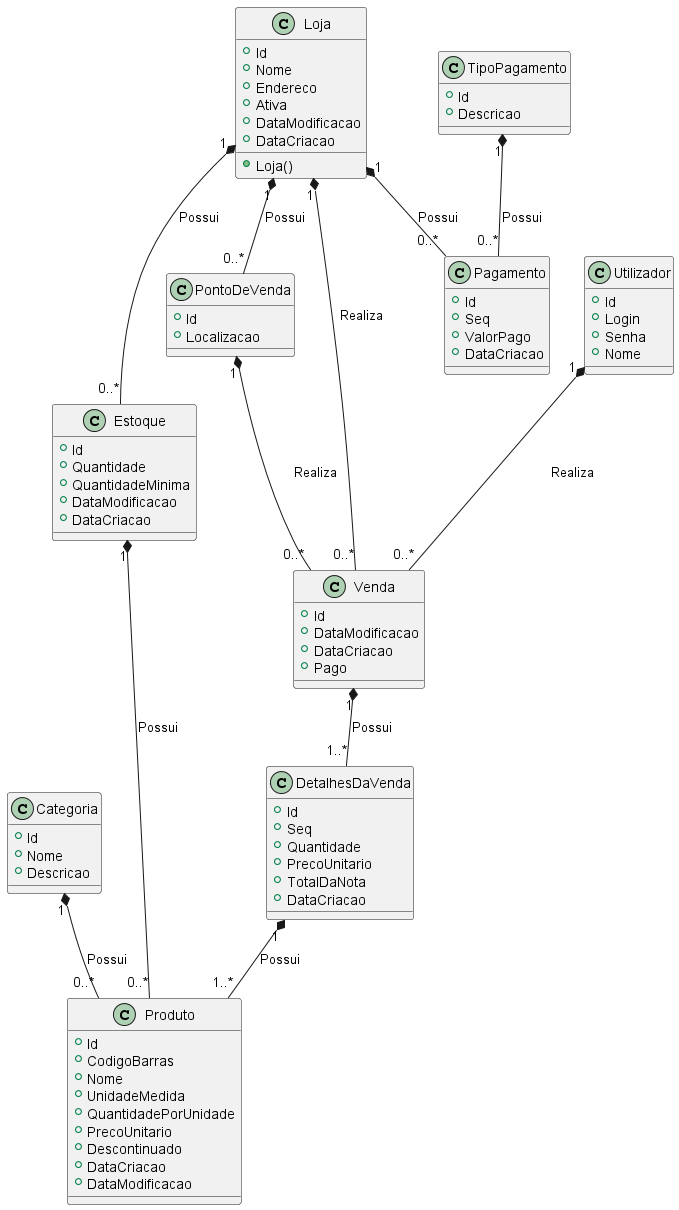
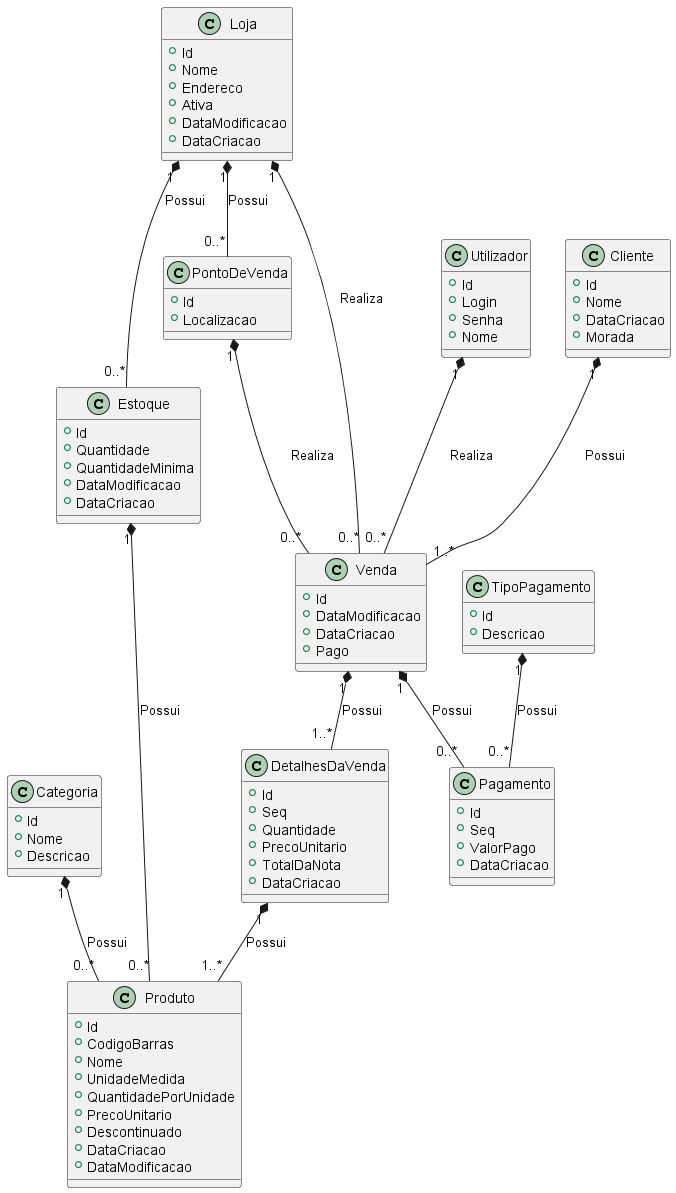
Acerttos do Modelo de Dados e acrescimo dos testes automatizados

diff --git a/Projeto01/Gandalf.Inc/Projeto.Tests/Modelo/ProdutoTests.cs b/Projeto01/Gandalf.Inc/Projeto.Tests/Modelo/ProdutoTests.cs
@@ -1,0 +1,97 @@
+using Microsoft.VisualStudio.TestTools.UnitTesting;
+using System;
+using System.Collections.Generic;
+using System.Linq;
+using System.Text;
+using System.Threading.Tasks;
+
+namespace Projeto.Tests.Modelo
+{
+    [TestClass]
+    public class ProdutoTests
+    {
+        [TestMethod]
+        public void DeveInstanciarUmObjetoProdutoTest()
+        {
+            //arrange
+            var produto = new Produto();
+
+            //act
+
+            //assert
+            Assert.IsNotNull(produto);
+            Assert.AreEqual(typeof(Produto), produto.GetType());
+        }
+
+        [TestMethod]
+        public void DeveInstanciarUmObjetoProdutoEaceitarPropriedadesTest()
+        {
+            //arrange
+            var produto = new Produto
+            {
+                Id = Guid.NewGuid(),
+                Nome = "Nome",
+                Categoria = new Categoria(),
+                CodigoBarras = "Codigo Barras",
+                DataCriacao = new DateTime(),
+                DataModificacao = new DateTime(),
+                Descontinuado = false,
+                PrecoUnitario = 0,
+                QuantidadePorUnidade = 0,
+                UnidadeMedida = "Unidade Medida",
+                Estoques = new List<Estoque>()
+            };
+
+            //act
+            var produto2 = produto;
+
+            //assert
+            Assert.IsNotNull(produto);
+            Assert.AreEqual(typeof(Produto), produto.GetType());
+            Assert.AreEqual(produto, produto2);
+            Assert.AreEqual(produto.Id, produto2.Id);
+            Assert.AreEqual(produto.Nome, produto2.Nome);
+            Assert.AreEqual(produto.Categoria, produto2.Categoria);
+            Assert.AreEqual(produto.CodigoBarras, produto2.CodigoBarras);
+            Assert.AreEqual(produto.DataCriacao, produto2.DataCriacao);
+            Assert.AreEqual(produto.DataModificacao, produto2.DataModificacao);
+            Assert.AreEqual(produto.Descontinuado, produto2.Descontinuado);
+            Assert.AreEqual(produto.PrecoUnitario, produto2.PrecoUnitario);
+            Assert.AreEqual(produto.QuantidadePorUnidade, produto2.QuantidadePorUnidade);
+            Assert.AreEqual(produto.UnidadeMedida, produto2.UnidadeMedida);
+            Assert.AreEqual(produto.Estoques, produto2.Estoques);
+        }
+
+
+        [TestMethod]
+        public void DeveInstanciarUmObjetoCategoriaComProdutosTest()
+        {
+            //arrange
+            var produto = new Produto();
+
+            //act
+
+            //assert
+            Assert.IsNotNull(produto.Estoques);
+            Assert.AreEqual(0, produto.Estoques.Count);
+            Assert.AreEqual(typeof(List<Estoque>), produto.Estoques.GetType());
+        }
+
+
+        [TestMethod]
+        public void DeveInstanciarUmObjetoCategoriaEAdicionarProdutosTest()
+        {
+            //arrange
+            var produto = new Produto();
+
+            //act
+            produto.Estoques.Add(new Estoque());
+            produto.Estoques.Add(new Estoque());
+
+            //assert
+            Assert.IsNotNull(produto.Estoques);
+            Assert.AreEqual(2, produto.Estoques.Count);
+            Assert.AreEqual(typeof(List<Estoque>), produto.Estoques.GetType());
+        }
+    }
+}

diff --git a/Projeto01/Gandalf.Inc/Projeto.Tests/Modelo/CategoriaTests.cs b/Projeto01/Gandalf.Inc/Projeto.Tests/Modelo/CategoriaTests.cs
@@ -8,7 +8,7 @@
         {
             //arrange
             var categoria = new Categoria();
-            
+
             //act
 
             //assert
@@ -23,14 +23,20 @@
             var categoria = new Categoria
             {
                 Descricao = "descricao",
+                Nome = "Nome",
                 Id = Guid.NewGuid()
             };
 
             //act
+            var categoria2 = categoria;
 
             //assert
             Assert.IsNotNull(categoria);
             Assert.AreEqual(typeof(Categoria), categoria.GetType());
+            Assert.AreEqual(categoria, categoria2);
+            Assert.AreEqual(categoria.Id, categoria2.Id);
+            Assert.AreEqual(categoria.Nome, categoria2.Nome);
+            Assert.AreEqual(categoria.Descricao, categoria2.Descricao);
         }
 
 

diff --git a/Projeto01/Gandalf.Inc/Projeto.Modelo/Pagamento.cs b/Projeto01/Gandalf.Inc/Projeto.Modelo/Pagamento.cs
@@ -3,8 +3,8 @@ namespace Projeto.Modelo
     public class Pagamento
     {
         public Guid Id { get; set; }
-        public string? Seq { get; set; }
-        public decimal ValorPago { get; set; }
+        public string? NumeroSequencialNota { get; set; }
+        public decimal ValorTotalPago { get; set; }
         public DateTime? DataCriacao { get; set; }
         public Loja? Loja { get; set; }
         public virtual TipoPagamento? TipoPagamento { get; set; }

diff --git a/Projeto01/Gandalf.Inc/Projeto.Modelo/Venda.cs b/Projeto01/Gandalf.Inc/Projeto.Modelo/Venda.cs
@@ -8,6 +8,7 @@ namespace Projeto.Modelo
         public DateTime? DataCriacao { get; set; }
         public bool? Pago { get; set; }
         public Loja? Loja { get; set; }
+        public Pagamento? Pagamento { get; set; }
         public virtual PontoDeVenda? PontoDeVenda { get; set; }
         public virtual List<DetalhesDaVenda> DetalhesDasVendas { get; set; }
         public virtual Utilizador? Utilizador { get; set; }

diff --git a/Projeto01/Gandalf.Inc/Projeto.Modelo/PontoDeVenda.cs b/Projeto01/Gandalf.Inc/Projeto.Modelo/PontoDeVenda.cs
@@ -4,6 +4,7 @@ namespace Projeto.Modelo
     {
         public PontoDeVenda() => Vendas = new List<Venda>();
         public Guid Id { get; set; }
+        public string? Nome { get; set; }
         public string? Localizacao { get; set; }
         public virtual Loja? Loja { get; set; }
         public virtual List<Venda> Vendas { get; set; }
